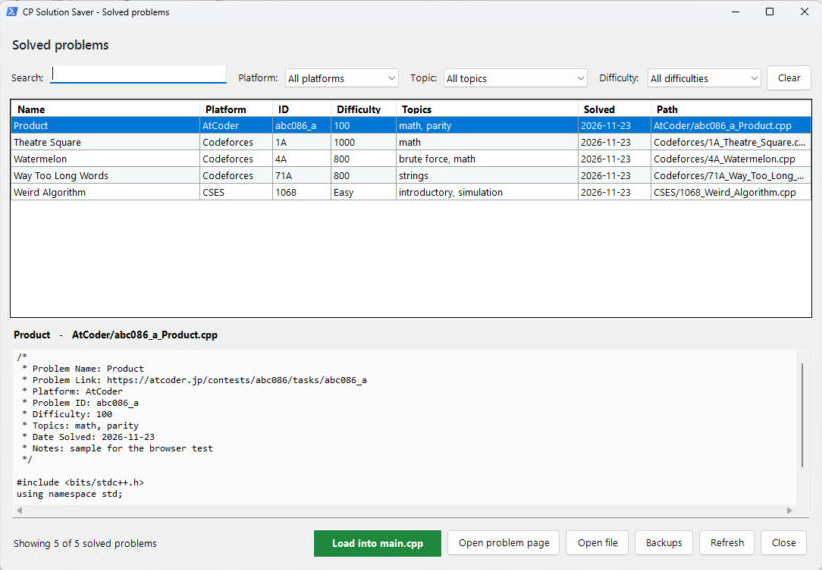
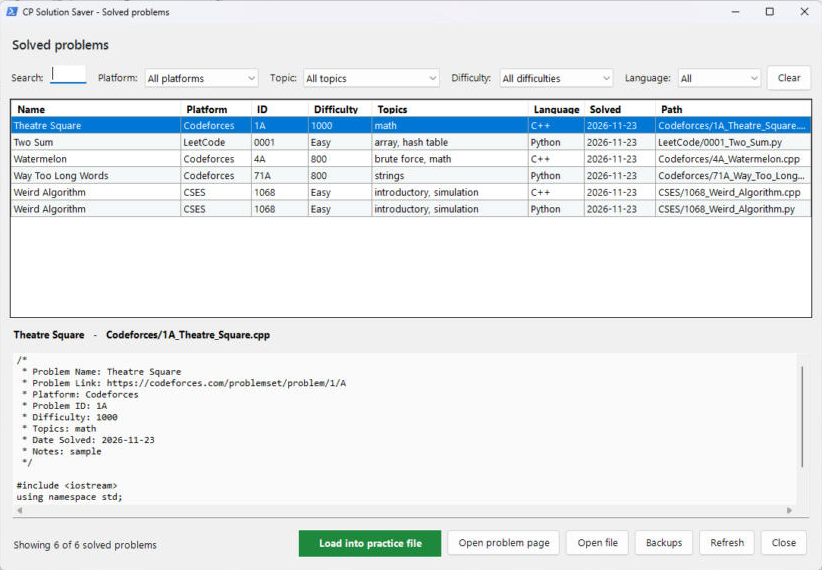
Keep the first link spelling on update; docs and screenshots for 2.2.0
- Updating a saved problem keeps the link as it was first written (when
  it's the same problem), so the same code with a differently written
  link is 'Already saved', not a change (found while testing the window)
- README: languages, code templates, link identity and first-date rule,
  quick-save message box, settings, troubleshooting; new screenshots;
  CHANGELOG 2.2.0

Claude-Session: https://claude.ai/code/session_01VuVS3fUFzcfWDNaXPnFiMG

diff --git a/README.md b/README.md
@@ -1,16 +1,17 @@
 # CP Solution Saver
 
-Save an accepted competitive-programming solution from your practice `main.cpp`
-to your GitHub solutions repo **with one click**: it gets a clean file name, the
+Save an accepted competitive-programming solution from your practice file
+(`main.cpp`, `main.c` or `main.py`) to your GitHub solutions repo **with one click**: it gets a clean file name, the
 right folder, a complete header (name, link, difficulty, topics, date), and it
 is listed in auto-generated indexes **by platform, by topic and by difficulty**.
 
 Two ways to save: the **window** (check and edit everything first) or **quick save**
-(one hotkey, no window, a notification tells you what happened). And when you want to
-study an old problem, **search your solved problems** and load one back into `main.cpp`.
+(one hotkey, no window, a message box tells you what happened). After saving, your practice
+file is reset to a **code template** for the next problem. When you want to study an old
+problem, **search your solved problems** and load one back.
 
-Made for a Visual Studio C++ practice project on Windows. No admin rights, no
-extra software besides Git.
+Made for a Visual Studio practice project on Windows (any editor works: the app only needs the
+file). C++, C and Python. No admin rights, no extra software besides Git.
 
 ![Main window](docs/screenshot-main.png)
 
@@ -23,35 +24,42 @@ extra software besides Git.
 3. [Daily use](#daily-use)
 4. [Quick save (no window)](#quick-save-no-window)
 5. [Solved problems: search and load back](#solved-problems-search-and-load-back)
-6. [The problem header](#the-problem-header)
-7. [How the solutions repo is organized](#how-the-solutions-repo-is-organized)
-8. [Settings](#settings)
-9. [Visual Studio button (optional)](#visual-studio-button-optional)
-10. [Console mode](#console-mode)
-11. [Testing](#testing)
-12. [Uninstall](#uninstall)
-13. [Troubleshooting](#troubleshooting)
-14. [Project layout](#project-layout)
+6. [Several languages (C++, C, Python)](#several-languages-c-c-python)
+7. [Code templates](#code-templates)
+8. [The problem header](#the-problem-header)
+9. [Same problem again: how it is recognized](#same-problem-again-how-it-is-recognized)
+10. [How the solutions repo is organized](#how-the-solutions-repo-is-organized)
+11. [Settings](#settings)
+12. [Visual Studio button (optional)](#visual-studio-button-optional)
+13. [Console mode](#console-mode)
+14. [Testing](#testing)
+15. [Uninstall](#uninstall)
+16. [Troubleshooting](#troubleshooting)
+17. [Project layout](#project-layout)
 
 ---
 
 ## What it does
 
-- **Reads the header** at the top of your `main.cpp` (problem name, link, difficulty, topics, notes).
+- **Reads the header** at the top of your practice file (problem name, **link (required)**, difficulty, topics, notes).
 - **Looks the problem up online** from the link, filling in what you left empty:
   - Codeforces: name, rating, tags
   - LeetCode: name, number, Easy/Medium/Hard, topic tags
   - AtCoder, CSES and others: name
 - **Saves** the code into your solutions repo, e.g. `Codeforces/4A_Watermelon.cpp`,
   with a normalized header including the date solved.
-- **Never duplicates**: saving the same problem again (same link) updates the existing
-  file. You can also choose to keep both (`_v2`).
+- **Never duplicates**: the problem link identifies the problem, so saving it again updates the
+  existing file (even if the link is written differently), and it keeps the original solve date.
+  You can also choose to keep both (`_v2`).
 - **Updates the indexes**: README progress section, `Index/BY_PLATFORM.md`,
   `Index/BY_TOPIC.md`, `Index/BY_DIFFICULTY.md`.
 - **Commits and pushes** (`git pull --rebase` first, so pushes don't get rejected),
   with messages like `Add Codeforces 4A - Watermelon` and the topics/difficulty in the body.
-- Optionally **resets `main.cpp`** to your template for the next problem.
-- **Quick save**: `Ctrl+Alt+Shift+F` does all of the above with no window and shows a notification with the result.
+- **Resets the practice file** to a code template for the next problem (on by default, can be turned off).
+- **Quick save**: `Ctrl+Alt+Shift+F` does all of the above with no window and shows the result in a message box.
+- **Several languages**: C++, C, Python (and Java/JS/C#/Go/Rust/Kotlin files are understood too).
+- **Code templates**: 11 built-in templates (basic, multiple tests, competitive, graph, number theory,
+  DSU/Fenwick, C, Python), plus your own; pick which one "reset" uses per language.
 - **Solved problems browser**: search by name, filter by platform / topic / difficulty, preview the code,
   and load a solution back into `main.cpp` (your current file is backed up first).
 
@@ -64,7 +72,8 @@ Requirements: Windows 10/11 and [Git for Windows](https://git-scm.com/download/w
    (or *Code → Download ZIP* and unzip).
 2. Double-click **`install.bat`**.
 3. If it can't find your settings yet, the **Settings** window opens. Choose:
-   - **Practice file**: the `main.cpp` you solve problems in.
+   - **Practice files**: the file you solve problems in, one per language (`main.cpp`, and if you
+     like `main.c`, `main.py`).
    - **Solutions repo folder**: your local clone of the solutions repo.
      No repo yet? Click **Create a new GitHub repo...** (uses Git's existing GitHub sign-in)
      or **Clone a GitHub repo...**.
@@ -74,7 +83,7 @@ The installer:
 | What | Where |
 |---|---|
 | App files | `%LOCALAPPDATA%\Programs\CPSolutionSaver` |
-| Settings + template | `%APPDATA%\CPSolutionSaver\config.json`, `template.cpp` |
+| Settings, templates, backups | `%APPDATA%\CPSolutionSaver\` (`config.json`, `templates\`, `backups\`) |
 | Start Menu | *CP Solution Saver* folder (app, Settings, Read me, Uninstall) |
 | Desktop | *CP Solution Saver* shortcut |
 | Hotkeys | **Ctrl+Alt+Shift+S** opens the app, **Ctrl+Alt+Shift+F** quick save (no window) |
@@ -85,46 +94,48 @@ You can also install non-interactively:
 
 ```powershell
 .\install.ps1 -MainCpp "C:\path\to\main.cpp" -RepoPath "C:\Users\me\Desktop\Problem-Solving-Solutions"
+.\install.ps1 -PracticeFile "C:\path\to\main.cpp", "C:\path\to\main.py"     # several languages
 ```
 
 Updating = `git pull` in this repo and run `install.bat` again (your settings are kept).
 
 ## Daily use
 
-1. Solve the problem in `main.cpp`. Fill at least the **link** in the header
-   (the name, difficulty and topics are fetched for Codeforces/LeetCode).
-2. Submit. When it's **Accepted**, press **Ctrl+S** in Visual Studio to save the file.
+1. Solve the problem in your practice file. Fill at least the **link** in the header (required;
+   the name, difficulty and topics are fetched for Codeforces/LeetCode).
+2. Submit. When it's **Accepted**, save the file (**Ctrl+S** in Visual Studio).
 3. Press **Ctrl+Alt+Shift+S** (or double-click `save_solution.bat`, or the Desktop shortcut).
 4. Check the fields, add topics with **Pick...** if you like, then **Save & Push** (or Ctrl+S in the app).
-5. Done: the status line says *"... is on GitHub"*.
+5. Done: the status line says *"... is on GitHub"*, and the practice file is reset to its template.
 
-Window shortcuts: **Ctrl+S** save & push, **F5** reload `main.cpp`, **Esc** close.
+The *Will be saved as* line tells you whether the problem is **new**, **solved before** (and when;
+it will be updated) or solved before **in another language**.
 
-If `main.cpp` changed after the window opened, it tells you; the newest code on disk is always what gets saved.
+Window shortcuts: **Ctrl+S** save & push, **F5** reload, **Esc** close.
+
+If the file changed after the window opened, it tells you; the newest code on disk is always what gets saved.
 
 ## Quick save (no window)
 
 When the header is already right, skip the window:
 
-1. Save `main.cpp` in Visual Studio (Ctrl+S).
+1. Save your practice file (Ctrl+S).
 2. Press **Ctrl+Alt+Shift+F** (or double-click `quick_save.bat`, or Start Menu > *CP Solution Saver - Quick Save*).
-3. A Windows notification shows the result, for example:
+3. A message box in the middle of the screen shows the result, for example:
 
    ![Quick save result](docs/screenshot-quicksave.png)
 
-   *Saved: Way Too Long Words* · `Codeforces/71A_Way_Too_Long_Words.cpp (new)` · `Difficulty 800 | strings` · `Pushed to GitHub.`
+Quick save uses the practice file you saved most recently, and exactly the same steps as the
+window (header + online lookup, duplicate check, indexes, pull/commit/push, reset to template)
+with your Settings defaults, and asks nothing. Other results:
 
-Quick save uses exactly the same steps as the window (header + online lookup, duplicate check,
-indexes, pull/commit/push) with your Settings defaults, and asks nothing. Other results:
-
-| Notification | Meaning |
+| Message | Meaning |
 |---|---|
 | *Already saved: ...* | This exact solution is already in the repo; nothing was pushed. |
-| *Quick save failed* (message box) | No problem name could be found, a push failed, etc. It explains why and offers to open the full window. |
+| *Quick save failed* | No problem link / name, a push failed, etc. It explains why and offers to open the full window. |
 
-Prefer a message box over a notification (e.g. Focus Assist hides notifications)? Settings >
-*Quick save: show a message box*. The full log of the last quick save is in
-`%APPDATA%\CPSolutionSaver\last-quick-save.log`.
+Prefer a Windows notification in the corner instead? Settings > *Quick save: show a Windows
+notification*. The full log of the last quick save is in `%APPDATA%\CPSolutionSaver\last-quick-save.log`.
 
 ## Solved problems: search and load back
 
@@ -134,19 +145,52 @@ Solved problems*, or `solved_problems.bat`.
 ![Solved problems browser](docs/screenshot-browser.png)
 
 - **Search** box: matches name, problem ID, platform, topics, notes, file name and link (several words = all must match). `Ctrl+F` jumps to it.
-- **Platform / Topic / Difficulty** filters (built from what you've solved); **Clear** resets them.
+- **Platform / Topic / Difficulty / Language** filters (built from what you've solved); **Clear** resets them.
 - Click a column header to sort (Difficulty sorts by rating, then Easy/Medium/Hard).
 - The lower half previews the selected solution.
-- **Load into main.cpp** (or double-click / Enter): asks first, **backs up your current `main.cpp`**
+- **Load into practice file** (or double-click / Enter): asks first, **backs up your current file**
   to `%APPDATA%\CPSolutionSaver\backups` (the newest 30 are kept; **Backups** button opens the folder),
-  then puts the solution into `main.cpp`. Visual Studio asks to reload the file: choose **Yes**.
+  then puts the solution into the practice file **of its language** (`.py` solutions go into `main.py`).
+  Visual Studio asks to reload the file: choose **Yes**.
 - **Open problem page** / **Open file** for the selected problem.
 
 A loaded solution keeps its header, so if you improve it and save again it **updates the same file**.
 
+## Several languages (C++, C, Python)
+
+Add one practice file per language in **Settings > Practice files** (for example `main.cpp`,
+`main.c`, `main.py`). The app always works on the one **you saved most recently**, and you can
+switch with the *Practice file* dropdown at the top of the window.
+
+- The saved file keeps its language: `Codeforces/4A_Watermelon.py`, `CSES/1083_Missing_Number.c`.
+- The same problem solved in two languages gives two files side by side; the window says
+  *solved before in C++* so you know.
+- Each language has its own reset template.
+- Solved problems can be filtered by language, and load back into the matching practice file.
+
+## Code templates
+
+![Code templates](docs/screenshot-templates.png)
+
+Open **Templates...** in the window (or in Settings). Built in:
+
+| Language | Templates |
+|---|---|
+| C++ | Basic (your includes + fast I/O), Multiple test cases, Competitive (aliases, macros, `LOCAL_INPUT` for `input.txt`), Graph (BFS, DFS), Number theory (mod pow, inverse, sieve, nCr), DSU and Fenwick tree |
+| C | Basic, Multiple test cases |
+| Python | Basic, Fast input (`sys.stdin.readline`), Multiple test cases |
+
+All of them compile with Visual Studio's default settings (no `bits/stdc++.h`, no C++17-only features).
+
+- **Load into main.cpp / main.py**: replaces the practice file with the template (backup first).
+- **Use for "reset after saving"**: that template is what the practice file is reset to after each save.
+- **Edit** opens it in Notepad. **Open templates folder** to add your own: a file named
+  `C++ - Segment tree.cpp` or `Python - Graphs.py` appears in the list automatically.
+  Your edits are never overwritten by updates.
+
 ## The problem header
 
-Put this comment at the very top of `main.cpp` (the template already has it):
+Put this comment at the very top of the practice file (the templates already have it):
 
 ```cpp
 /*
@@ -161,14 +205,25 @@ Put this comment at the very top of `main.cpp` (the template already has it):
 | Field | Required | Notes |
 |---|---|---|
 | `Problem Name` | yes* | *fetched from the link for Codeforces/LeetCode/AtCoder/CSES |
-| `Problem Link` | recommended | decides the platform folder and the problem ID |
+| `Problem Link` | **yes** | identifies the problem (see below), decides the platform folder and the problem ID |
 | `Platform` | no | detected from the link; set it for judges that aren't recognized |
 | `Problem ID` | no | detected (e.g. `4A`, `abc300_a`, `1068`) |
 | `Difficulty` | no | a rating (`800`, `1400`) or `Easy` / `Medium` / `Hard` |
 | `Topics` | no | comma separated; merged with the online tags |
 | `Notes` | no | can span several lines |
 
-Aliases work too: `Name`, `Link`/`URL`, `Tags`, `Rating`/`Level`, `Date`.
+Python files use a docstring instead (the Python templates already have it):
+
+```python
+"""
+Problem Name: Watermelon
+Problem Link: https://codeforces.com/problemset/problem/4/A
+Topics: math
+"""
+```
+
+`// Key: value` or `# Key: value` comment lines at the top work too.
+Aliases work: `Name`, `Link`/`URL`, `Tags`, `Rating`/`Level`, `Date`.
 Any other `Key: value` line (e.g. `Time Complexity: O(n)`) is kept in the saved file.
 
 Saved files get a complete header:
@@ -188,6 +243,20 @@ Saved files get a complete header:
 
 Recognized platforms: Codeforces (contest, problemset, gym), LeetCode, AtCoder, CSES,
 CodeChef, SPOJ, Kattis, HackerRank, VJudge, UVa, Eolymp. Anything else goes to `Other/`.
+
+## Same problem again: how it is recognized
+
+The **problem link is the problem's identity** (that's why it is required):
+
+- Different spellings of the same link are the same problem: `codeforces.com/contest/4/problem/A`
+  = `codeforces.com/problemset/problem/4/A`; `leetcode.com/problems/two-sum/description/` =
+  `leetcode.com/problems/two-sum`; `http`/`https`, `www.`, `?query` and trailing `/` don't matter.
+- Saving a problem that's already in the repo (same language) **updates that file**, even if you
+  renamed the problem. Tick *Keep the old solution too* to save it as `_v2` instead.
+- The update keeps the **date it was first solved** and the **link as first written** (unless you
+  wrote a `Date Solved:` yourself). So saving the same code again, on another day, gives
+  *"Already saved - nothing new to push"* instead of a fake new submission. If the code or the
+  topics/notes changed, it is committed as *Update ...*.
 
 ## How the solutions repo is organized
 
@@ -218,11 +287,12 @@ Only the part of README.md between `<!-- CPSAVER:STATS:START -->` and
 
 Open **Settings** in the window or *CP Solution Saver - Settings* in the Start Menu.
 
-- Practice file and solutions repo folder (plus *Clone* / *Create new GitHub repo*)
-- **Edit** the new-problem template (used by "Reset main.cpp after saving")
+- **Practice files** (one per language) and the solutions repo folder (plus *Clone* / *Create new GitHub repo*)
+- **Templates...**: choose the reset template per language, load or edit templates
 - Look up problems online (on by default)
-- Push after saving (on), update indexes (on), reset `main.cpp` after saving (off)
-- **Add Difficulty/Topics fields to my main.cpp header**: upgrades an old header without touching your code
+- Push after saving (on), update indexes (on), **reset the practice file after a successful save (on)**
+- Quick save: message box (default) or Windows notification
+- **Add Difficulty/Topics fields to my practice files' headers**: upgrades old headers without touching your code
 
 Settings live in `%APPDATA%\CPSolutionSaver\config.json`.
 
@@ -242,7 +312,8 @@ Remember to save (`Ctrl+S`) before using it.
 ## Console mode
 
 ```bat
-cpsaver.cmd -Cli                 :: shows what will be saved, asks, saves and pushes
+cpsaver.cmd -Cli                 :: shows what will be saved, asks, saves and pushes (newest practice file)
+cpsaver.cmd -Cli -MainCpp X.py   :: same, for a specific file
 cpsaver.cmd -Cli -Yes            :: no questions
 cpsaver.cmd -Cli -NoFetch        :: don't look the problem up online
 cpsaver.cmd -Cli -NoPush         :: commit only
@@ -262,8 +333,9 @@ cpsaver.cmd -Version
 Double-click **`run-tests.bat`** (or `powershell -ExecutionPolicy Bypass -File tests\Run-Tests.ps1 -Online`).
 The tests create a temporary repo with a local remote, so your real repo and GitHub are never touched.
 They cover header parsing, platform detection, saving/updating/keep-both, indexes, template reset,
-console mode end to end, quick save, loading a solution back with backups, and (with `-Online`)
-the Codeforces/LeetCode/CSES/AtCoder lookups.
+console mode end to end, quick save, loading a solution back with backups, C/Python files,
+link identity, the first-solve-date rule, templates, settings migration, and (with `-Online`)
+the Codeforces/LeetCode/CSES/AtCoder lookups (84 checks).
 
 ## Uninstall
 
@@ -280,17 +352,20 @@ your solutions repo is never touched. Settings are kept unless you run
 | *Online lookup failed* | No internet or the site is slow; fill the fields by hand. Codeforces data is cached for a day. |
 | Wrong folder / name | Edit the fields in the window before saving, or set `Platform:` / `Problem ID:` in the header. |
 | Hotkey does nothing | Another app uses that key combination. Change it: right-click the Start Menu shortcut (*CP Solution Saver* or *Quick Save*) → Properties → Shortcut key. |
-| No quick-save notification | Focus Assist / Do Not Disturb may hide it. Switch to the message box in Settings, or read `%APPDATA%\CPSolutionSaver\last-quick-save.log`. |
-| Loaded the wrong solution | Your previous `main.cpp` is in the **Backups** folder (Solved problems window). |
-| Visual Studio asks to reload main.cpp | Expected after "Reset main.cpp"; choose **Yes**. |
+| No quick-save notification | Only if you switched to notifications: Focus Assist may hide them. Switch back to the message box in Settings, or read `%APPDATA%\CPSolutionSaver\last-quick-save.log`. |
+| Loaded the wrong solution / template | Your previous file is in the **Backups** folder (Solved problems window). |
+| Visual Studio asks to reload main.cpp | Expected after a reset or a load; choose **Yes**. |
+| Quick save used the wrong language | It uses the practice file saved most recently: save the one you mean (Ctrl+S) first. |
+| *The problem link is required* | Add `Problem Link: https://...` to the header; it's how the app knows which problem it is. |
 | "running scripts is disabled" | Use the shortcuts / `.bat` files: they pass `-ExecutionPolicy Bypass` for this app only. |
 
 ## Project layout
 
 ```
 src/CPSaver.ps1        entry point (window, console mode, rebuild index)
-src/CPSaver.Core.psm1  all logic: header, platforms, online lookup, saving, git, indexes
-src/CPSaver.Gui.ps1    Windows Forms window, settings, topic picker, solved-problems browser, notifications
+src/CPSaver.Core.psm1  all logic: header, languages, platforms, problem identity, online lookup,
+                       saving, git, indexes, templates, quick save, backups
+src/CPSaver.Gui.ps1    Windows Forms window, settings, topic picker, templates, solved-problems browser, notifications
 install.ps1 / .bat     per-user installer
 uninstall.ps1          uninstaller
 tests/Run-Tests.ps1    self-tests

diff --git a/CHANGELOG.md b/CHANGELOG.md
@@ -1,5 +1,33 @@
 # Changelog
 
+## 2.2.0 - 2026-11-23
+
+### Added
+- **Several languages**: one practice file per language (`main.cpp`, `main.c`, `main.py` ...);
+  the most recently saved one is used, or pick it in the window. Python docstring headers and
+  `//` / `#` comment headers are understood; saved files keep their extension.
+- **Code templates**: 11 built-in templates (C++: Basic, Multiple test cases, Competitive,
+  Graph, Number theory, DSU + Fenwick; C: 2; Python: 3) plus your own files in
+  `%APPDATA%\CPSolutionSaver\templates`. Templates window: preview, load into the practice
+  file (with backup), choose the template "reset after saving" uses per language.
+- Window shows whether the problem is new, solved before (and when) or solved before in
+  another language. Solved problems browser: Language column and filter.
+
+### Changed
+- **The problem link is required** and identifies the problem; different spellings of the same
+  link (Codeforces contest vs problemset, LeetCode `/description`, query strings, `www`,
+  trailing `/`) are recognized as the same problem.
+- **Reset the practice file after a successful save is on by default** (can be turned off);
+  quick save also resets after "already saved".
+- **Quick save shows a message box in the middle of the screen** by default (Windows
+  notification is an option). Existing settings are migrated to both new defaults.
+
+### Fixed
+- Saving the same problem again no longer counts as a new submission because of the date:
+  the original *Date Solved* and link spelling are kept, so identical code gives
+  "Already saved - nothing new to push".
+
+
 ## 2.1.0 - 2026-11-23
 
 ### Added
